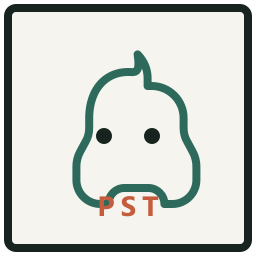
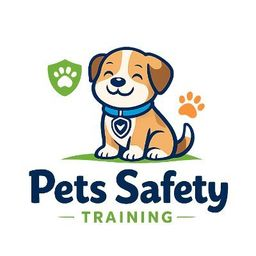
asd

diff --git a/src/app/layout.tsx b/src/app/layout.tsx
@@ -23,15 +23,14 @@ export const viewport: Viewport = {
 export const metadata: Metadata = {
   metadataBase: new URL('https://www.petsafetytraining.com'),
   title: {
-    default: 'Pet Safety Training',
-    template: '%s · Pet Safety Training',
+    default: 'Pets Safety Training',
+    template: '%s · Pets Safety Training',
   },
   description:
-    'Pet Safety Training — safer pets, better homes. Learn pet safety, browse pets for adoption, and support responsible ownership.',
+    'Professional pet safety training for safer pets and better homes. Learn pet safety, browse pets for adoption, and support responsible ownership.',
   icons: {
     icon: [
       { url: '/favicon.ico', type: 'image/x-icon' },
-      { url: '/favicon.svg', type: 'image/svg+xml' },
       { url: '/favicon-16x16.png', sizes: '16x16', type: 'image/png' },
       { url: '/favicon-32x32.png', sizes: '32x32', type: 'image/png' },
       { url: '/favicon-48x48.png', sizes: '48x48', type: 'image/png' },
@@ -43,25 +42,26 @@ export const metadata: Metadata = {
     ],
   },
   openGraph: {
-    title: 'Pet Safety Training · Modern pet safety & adoption',
+    title: 'Pets Safety Training · Pet safety & adoption',
     description:
-      'Safer pets, better homes. Training resources, adoption listings, and articles for thoughtful pet owners.',
+      'Professional pet safety training — safer pets, better homes. Training resources, adoption listings, and articles for thoughtful pet owners.',
     type: 'website',
     images: [
       {
-        url: '/social-card.svg',
-        width: 1200,
-        height: 630,
-        alt: 'Pet Safety Training',
+        url: '/Logo.jpg',
+        width: 400,
+        height: 400,
+        alt:
+          'Pets Safety Training logo featuring a cartoon puppy with a safety shield and paw prints',
       },
     ],
   },
   twitter: {
     card: 'summary_large_image',
-    title: 'Pet Safety Training · Modern pet safety & adoption',
+    title: 'Pets Safety Training · Pet safety & adoption',
     description:
-      'Safer pets, better homes. Training resources and adoption listings.',
-    images: ['/social-card.svg'],
+      'Professional pet safety training — safer pets, better homes.',
+    images: ['/Logo.jpg'],
   },
 }
 

diff --git a/src/components/Logo.tsx b/src/components/Logo.tsx
@@ -1,42 +1,15 @@
+import Image from 'next/image'
+
 export function LogoMark({ className }: { className?: string }) {
   return (
-    <svg
-      viewBox="0 0 64 64"
-      role="img"
-      aria-label="Pet Safety Training"
-      className={className}
-    >
-      <rect
-        x="2"
-        y="2"
-        width="60"
-        height="60"
-        fill="#f6f4ef"
-        stroke="#16231f"
-        strokeWidth="2"
-        rx="2"
-      />
-      <path
-        d="M32 18c-4 0-7 2.2-8.5 5.5-.8 1.8-1.2 3.8-1.2 6v2.5c0 1.2-.3 2.4-.9 3.4l-1.4 2.6c-.6 1.1-.9 2.4-.9 3.6v3.4c0 3.3 2.7 6 6 6h2c0-2.2 1.8-4 4-4h6c2.2 0 4 1.8 4 4h2c3.3 0 6-2.7 6-6v-3.4c0-1.2-.3-2.5-.9-3.6l-1.4-2.6c-.6-1-.9-2.2-.9-3.4V29.5c0-4.4-3.6-8-8-8h-1v-2c0-2.2-.9-4.2-2.3-5.7l-.2-.2C35.2 18.7 33.6 18 32 18Z"
-        fill="none"
-        stroke="#2d6a5c"
-        strokeWidth="2"
-        strokeLinejoin="round"
-      />
-      <circle cx="26" cy="34" r="2" fill="#16231f" />
-      <circle cx="38" cy="34" r="2" fill="#16231f" />
-      <text
-        x="32"
-        y="54"
-        textAnchor="middle"
-        fontFamily="system-ui, sans-serif"
-        fontWeight="700"
-        fontSize="7"
-        fill="#c45c3e"
-        letterSpacing="1.5"
-      >
-        PST
-      </text>
-    </svg>
+    <Image
+      src="/Logo.jpg"
+      alt="Pets Safety Training logo featuring a cartoon puppy with a safety shield and paw prints"
+      width={400}
+      height={400}
+      className={['shrink-0 object-contain', className].filter(Boolean).join(' ')}
+      sizes="44px"
+      priority
+    />
   )
 }

diff --git a/public/favicon-tags.html b/public/favicon-tags.html
@@ -5,7 +5,7 @@
 <link rel="manifest" href="/manifest.webmanifest">
 <meta name="mobile-web-app-capable" content="yes">
 <meta name="theme-color" content="#f6f4ef">
-<meta name="application-name" content="Pet Safety Training">
+<meta name="application-name" content="Pets Safety Training">
 <link rel="apple-touch-icon" sizes="57x57" href="/apple-touch-icon-57x57.png">
 <link rel="apple-touch-icon" sizes="60x60" href="/apple-touch-icon-60x60.png">
 <link rel="apple-touch-icon" sizes="72x72" href="/apple-touch-icon-72x72.png">
@@ -19,4 +19,4 @@
 <link rel="apple-touch-icon" sizes="1024x1024" href="/apple-touch-icon-1024x1024.png">
 <meta name="apple-mobile-web-app-capable" content="yes">
 <meta name="apple-mobile-web-app-status-bar-style" content="black-translucent">
-<meta name="apple-mobile-web-app-title" content="Pet Safety">
+<meta name="apple-mobile-web-app-title" content="Pets Safety">

diff --git a/src/components/Footer.tsx b/src/components/Footer.tsx
@@ -11,7 +11,7 @@ export function Footer() {
         <div className="grid gap-10 py-12 sm:grid-cols-2 lg:grid-cols-4">
           <div>
             <div className="font-display text-lg font-bold tracking-tight text-ink">
-              Pet Safety Training
+              Pets Safety Training
             </div>
             <p className="mt-3 max-w-xs text-sm leading-relaxed text-ink-soft">
               Resources and adoption listings for people who want calm, safe,
@@ -84,7 +84,7 @@ export function Footer() {
           </div>
         </div>
         <div className="border-t border-rule py-5 text-center text-[11px] font-medium text-ink-mute">
-          © {year} Pet Safety Training. Photos from public sources.
+          © {year} Pets Safety Training. Photos from public sources.
         </div>
       </Container>
     </footer>

diff --git a/src/components/Navbar.tsx b/src/components/Navbar.tsx
@@ -64,7 +64,7 @@ export function Navbar() {
             <LogoMark className="h-11 w-11 shrink-0" />
             <div className="leading-tight">
               <div className="font-display text-xl font-bold tracking-tight text-ink sm:text-2xl">
-                Pet Safety Training
+                Pets Safety Training
               </div>
               <div className="mt-0.5 hidden text-[11px] font-medium text-ink-mute sm:block">
                 Safety-first care for dogs &amp; their people

diff --git a/README.md b/README.md
@@ -28,7 +28,7 @@ npm run start
 
 ## Favicons / logo
 
-Favicons and the `favicon.ico` are generated from `public/logo.svg`:
+Favicons and `favicon.ico` (plus PNG/Android/Apple icons) are generated from `public/Logo.jpg`:
 
 ```bash
 npm run generate:icons
